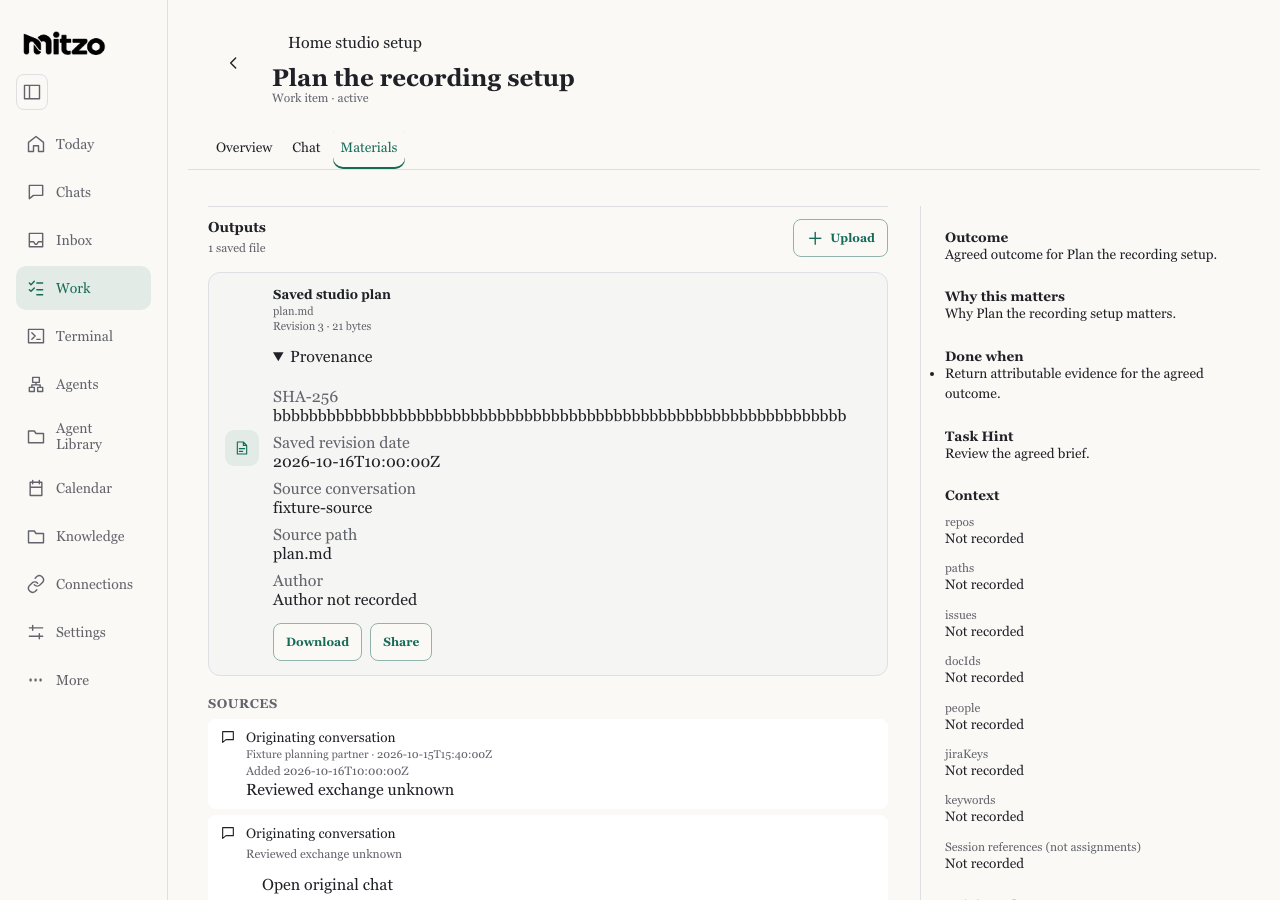
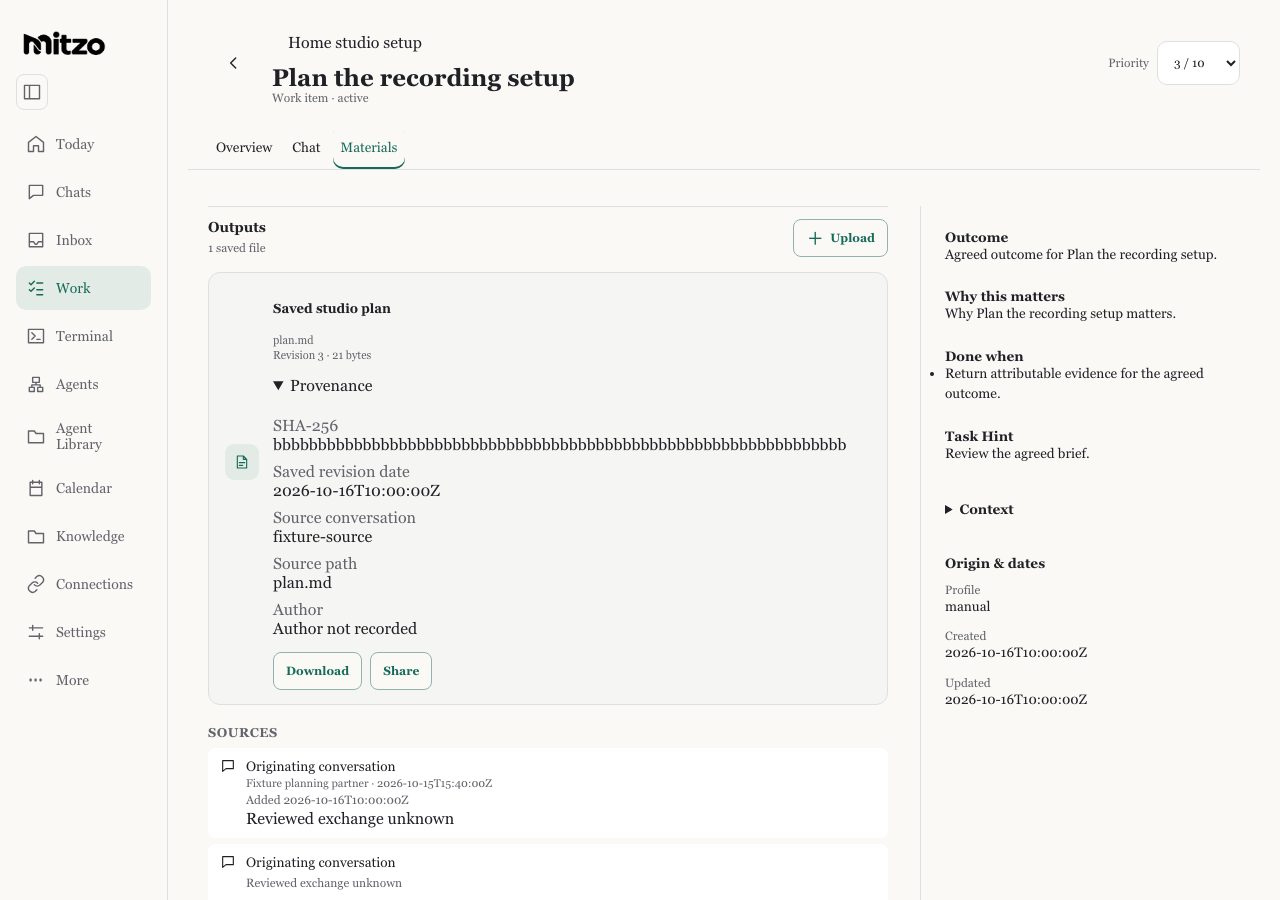
fix(telos): retain usable priority controls in narrow workspaces

diff --git a/tests/offline/telos-outcomes-workspace.spec.ts b/tests/offline/telos-outcomes-workspace.spec.ts
@@ -310,16 +310,19 @@ for (const theme of ['dark', 'light'])
       expect((await page.locator('.telos-item-workspace').boundingBox())!.x).toBeGreaterThan(100);
     await expect(page.getByRole('button', { name: 'Work', exact: true })).toHaveCount(0);
     const priority = page.getByRole('combobox', { name: 'Priority', exact: true });
+    const priorityBounds = (await priority.boundingBox())!;
+    expect(priorityBounds.height).toBeGreaterThanOrEqual(44);
+    expect(priorityBounds.width).toBeGreaterThanOrEqual(44);
+    expect(priorityBounds.x + priorityBounds.width).toBeLessThanOrEqual(page.viewportSize()!.width);
+
     for (let value = 1; value <= 10; value++) {
       await priority.selectOption(String(value));
       await expect(priority).toHaveValue(String(value));
       await expect(priority).toBeEnabled();
       await page.getByRole('button', { name: 'Back', exact: true }).click();
-      const row = page
-        .locator('.telos-tree-row')
-        .filter({
-          has: page.getByRole('button', { name: 'Plan the recording setup', exact: true }),
-        });
+      const row = page.locator('.telos-tree-row').filter({
+        has: page.getByRole('button', { name: 'Plan the recording setup', exact: true }),
+      });
       await expect(row.getByLabel(`Priority ${value} out of 10`)).toHaveText(`P${value}`);
       await row.getByRole('button', { name: 'Plan the recording setup', exact: true }).click();
       await expect(priority).toHaveValue(String(value));

diff --git a/frontend/src/hooks/__tests__/useTelosRecords.test.tsx b/frontend/src/hooks/__tests__/useTelosRecords.test.tsx
@@ -153,3 +153,22 @@ it('publishes confirmed priority to mounted records, fences earlier reads and re
   expect(detail.result.current.records[0]?.priority).toBe(9);
   expect(detail.result.current.unavailable).toContain(original.itemId);
 });
+
+it('accepts later authoritative priority changes once a confirmed write is reconciled', async () => {
+  const { setTodoPriority } = await import('../../lib/todo-priority');
+  vi.spyOn(await import('../../lib/api-fetch'), 'apiFetch').mockResolvedValue(
+    new Response('{"ok":true}'),
+  );
+  let current = { ...createTelosWorkFixtures().homeStudio.items[1], priority: 5 };
+  vi.spyOn(TelosWorkApiClient.prototype, 'readRecord').mockImplementation(async () => current);
+  const view = renderHook(() => useTelosRecords([current.itemId]));
+  await waitFor(() => expect(view.result.current.records[0]?.priority).toBe(5));
+  current = { ...current, priority: 9 };
+  await act(async () => {
+    await setTodoPriority(current.itemId, 9);
+  });
+  await waitFor(() => expect(view.result.current.records[0]?.priority).toBe(9));
+  current = { ...current, priority: 2 };
+  act(() => updates.forEach((listener) => listener()));
+  await waitFor(() => expect(view.result.current.records[0]?.priority).toBe(2));
+});

diff --git a/server/connections/reviewed-handler-artifacts.ts b/server/connections/reviewed-handler-artifacts.ts
@@ -29,7 +29,7 @@ export const reviewedHandlerSourceArtifacts = Object.freeze({
   '../../frontend/src/hooks/useTelosRecords.ts':
[1 lines of base64/hex data omitted]
   '../../frontend/src/components/TelosWorkspace.css':
[2 lines of base64/hex data omitted]
   '../../frontend/src/components/TelosItemWorkspace.tsx':
[1 lines of base64/hex data omitted]
   '../../frontend/src/components/TelosOutcomesTree.tsx':
@@ -1034,8 +1034,6 @@ export const reviewedHandlerSourceArtifacts = Object.freeze({
[1 lines of base64/hex data omitted]
   '../../frontend/src/lib/list-cache.ts':
[1 lines of base64/hex data omitted]
-  '../../frontend/src/pages/TodoView.tsx':
[1 lines of base64/hex data omitted]
   '../../frontend/src/lib/todo-priority.ts':
[1 lines of base64/hex data omitted]
 });

diff --git a/frontend/src/components/TelosWorkspace.css b/frontend/src/components/TelosWorkspace.css
@@ -157,10 +157,14 @@
   padding-inline: var(--space-2);
 }
 .telos-item-heading {
-  display: flex;
+  display: grid;
+  grid-template-columns: auto minmax(0, 1fr) auto;
   align-items: center;
   gap: var(--space-3);
   padding: var(--page-gutter);
+}
+.telos-item-heading > .todo-priority-control {
+  min-width: max-content;
 }
 .telos-item-heading button {
   background: transparent;
@@ -305,6 +309,13 @@
   font-size: var(--text-sm);
 }
 @media (max-width: 767px) {
+  .telos-item-heading {
+    grid-template-columns: auto minmax(0, 1fr);
+  }
+  .telos-item-heading > .todo-priority-control {
+    grid-column: 2;
+    min-width: 0;
+  }
   .telos-tree-row {
     flex-wrap: wrap;
   }

diff --git a/docs/design/ui-design-system.md b/docs/design/ui-design-system.md
@@ -1503,11 +1503,18 @@ and the existing role owner performs setup. It never allocates from a tree read.
 `TelosItemWorkspace` retains the original brief beside its content on desktop and
 below it on phones. One Back chevron returns through item history or the retained
 collection. The focused desktop item stays inside `DesktopShell`; `MobileShell`
-continues to own collection branding/navigation. Parent kinds expose Work; leaves
+continues to own collection branding/navigation. Parent kinds and legacy unclassified records with actual children expose Work; leaves
 expose Overview, Chat and Materials. Existing role, source and saved-output owners
 supply those entry points. Source exchanges, retained bytes and external links
 remain distinct. The output disclosure shows exact revision/hash, recorded save
-time and source identity; unavailable author/date facts remain explicit.
+time and source identity; unavailable author/date facts remain explicit. The original Context
+section is a native, initially collapsed disclosure with populated readable labels.
+New item restores an unsent planning prompt in the full ordinary chat composer.
+Canonical record views invalidate on item events and visible resume. The published
+priority owner supplies the selector, numeric projection and ordered confirmed-save
+notifications; S7 consumes them in the header and P<n> tree badges, fences older
+reads and retains acknowledged values through failed record refresh. On phones the
+priority control occupies a separate header row rather than collapsing beside long titles.
 
 The brief's 20rem column is structural reading geometry. Search wraps before the
 actions at phone widths and uses five shared control heights as its preferred
@@ -1528,8 +1535,10 @@ recursive context search, pin persistence, navigation and reload. It makes no
 backend, credential or model calls. These captures document interim implementation,
 not a new approval or final CT13 acceptance.
 
-Open integration boundaries: accepted S5a/S5b; CT14 after the priority UI owner is
-accepted; the work API's missing authoritative attention classification (Needs you
+Open integration boundaries: accepted S5a/S5b; CT14 accepted-source persistence
+and independent acceptance after the priority producer is accepted; the shared
+artifact viewer producer handoff; the priority protection amendment for legacy
+collection assertions (the active protected file remains unchanged); the work API's missing authoritative attention classification (Needs you
 stays unavailable); collection-wide record/category projection (currently bounded
 per-record reads); coordinator setup from its existing owner; and S8's chooser,
 ordinary header and collapsible chat tree. Full frontend type checking exceeded
